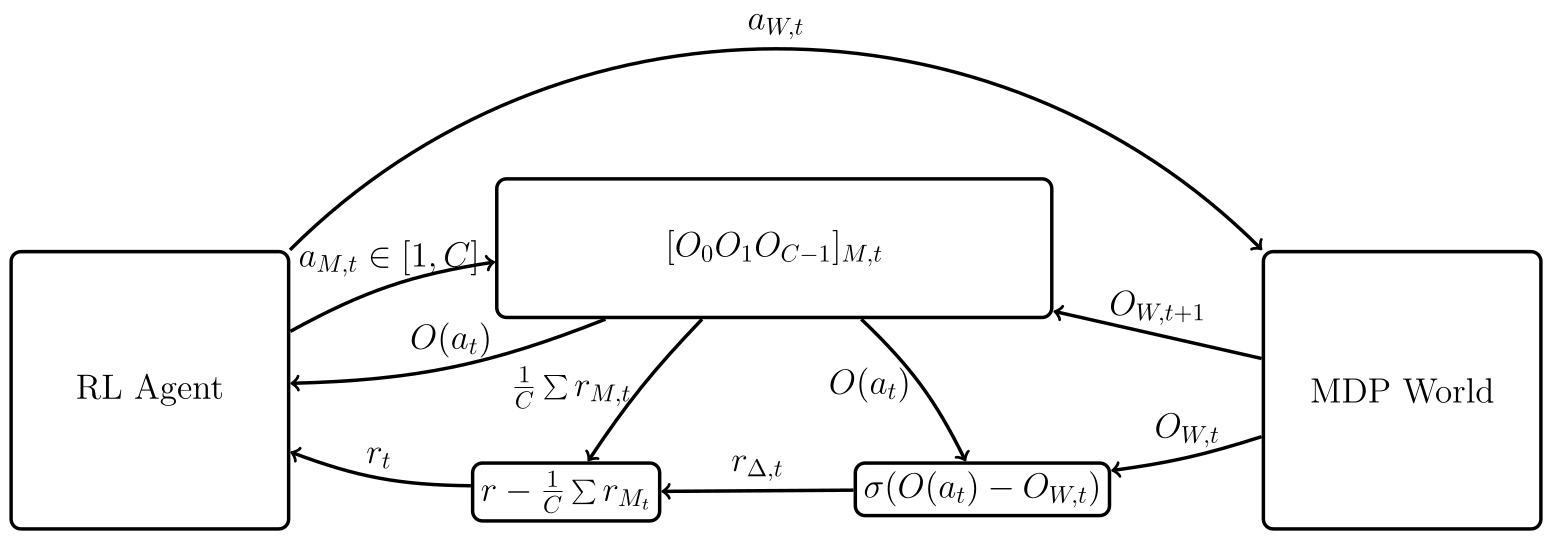
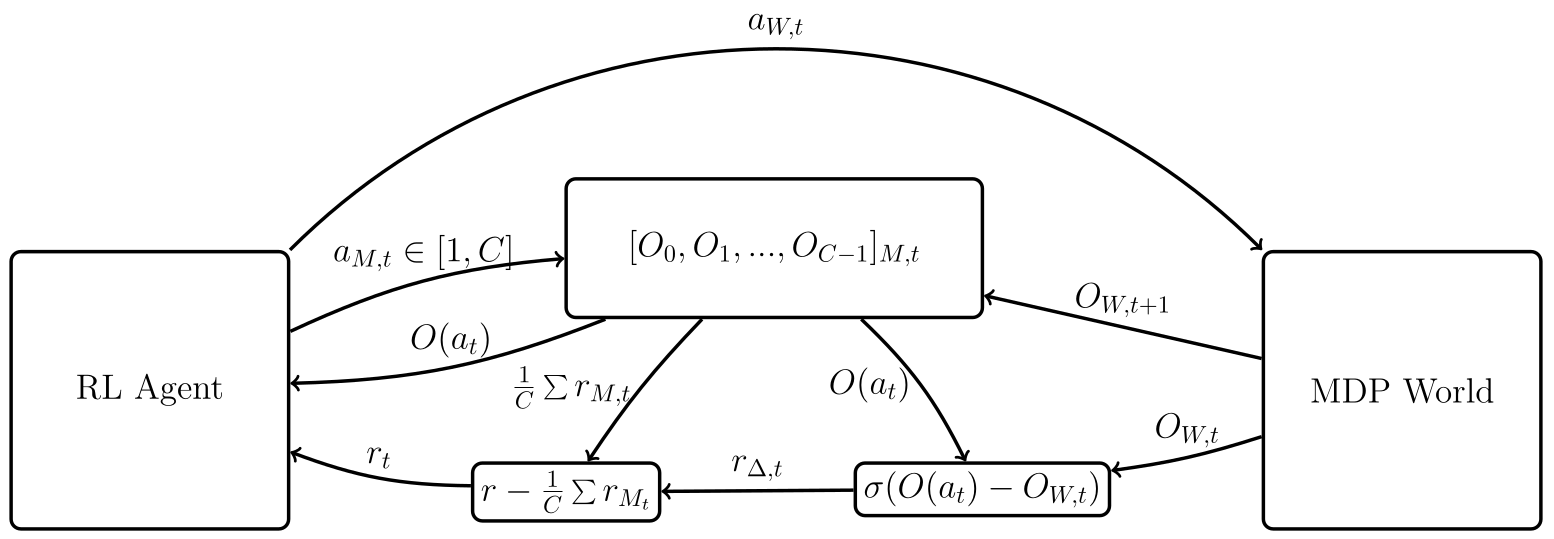
Improved spacing

diff --git a/docs/architecture.tex b/docs/architecture.tex
@@ -12,7 +12,7 @@
 \begin{tikzpicture}[node distance=2cm, auto]
   % Nodes 
   \node (agent) [minimum width=4cm, minimum height=4cm, rounded corners] {RL Agent};
-  \node (memory) [above=-1cm of agent, xshift=9cm, minimum width=8cm, minimum height=2cm, rounded corners] {$[O_0 O_1 O_{C-1}]_{M, t}$};
+  \node (memory) [above=-1cm of agent, xshift=9cm, minimum width=6cm, minimum height=2cm, rounded corners] {$[O_0, O_1, ..., O_{C-1}]_{M, t}$};
   \node (world) [right=14cm of agent, minimum width=4cm, minimum height=4cm, rounded corners] {MDP World};
   \node (evaluator) [rectangle, below=-1cm of agent, xshift=6cm, rounded corners] {$r - \frac{1}{C}\sum{r_{M_t}}$};
   \node (calculator) [rectangle, below=-1cm of agent, xshift=12cm, rounded corners] {$\sigma(O(a_t)-O_{W, t})$};
